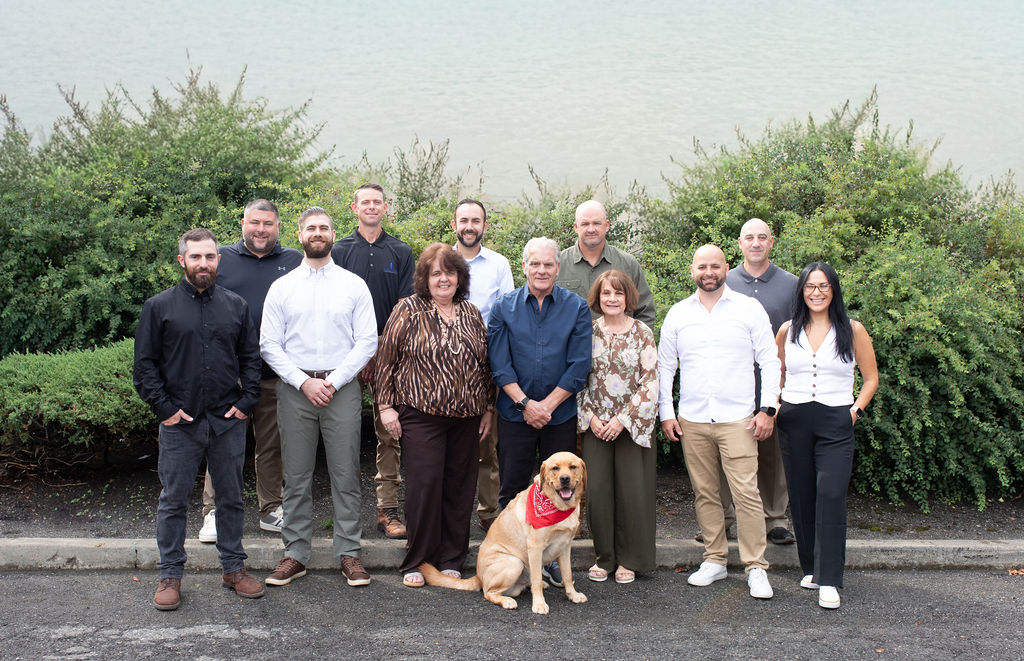
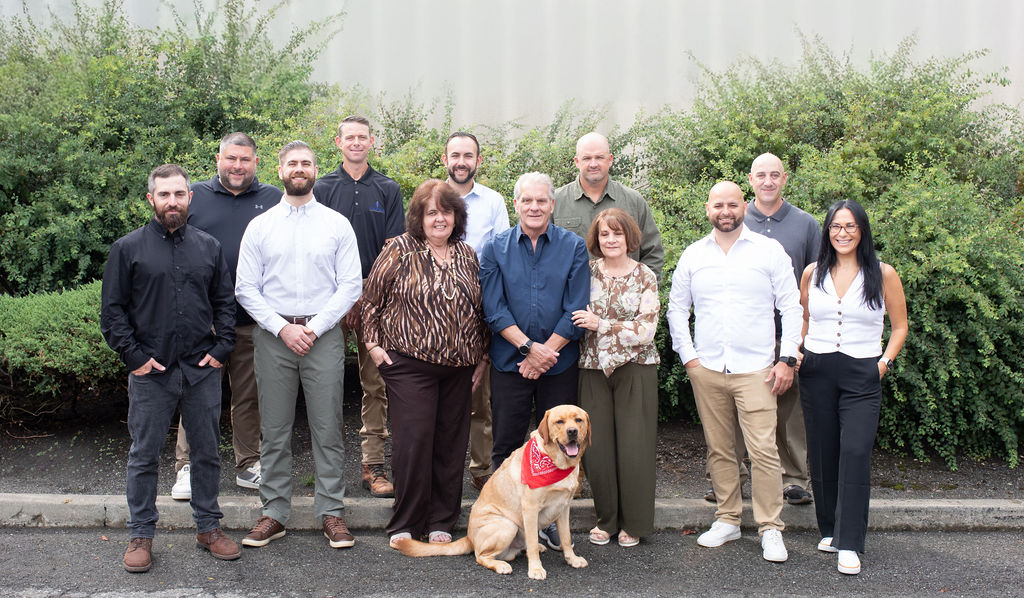
Stand the crew on the word and answer the first review round
Matt chose the tighter group frame (Shot 2), which has no blank wall above
the crew, so the title moves from the wall to the road. The asphalt fades
into the plate black and "People." is set in that black at the width of the
crew's footprint, the P stem under the first boot and the period under the
last shoe. The page ground is now the black the portraits were normalized
to, so the twelve plates dissolve into the page.

From the first review round: no resting dim and no neighbour dim on hover,
one photographer credit instead of three, the grey period removed, the lead
names the three principals, the close uses the homepage's own line and
button, the values link carries the homepage label, and the dateline clears
the descender of the p.

Refs LA-646

diff --git a/assets/people.css b/assets/people.css
@@ -1,6 +1,6 @@
 /* People. Scoped under .pp. Every colour, ease and type size comes from the
    tokens in information-pages.css. The masthead and the group photograph sit
-   in the photograph itself. Everything below it sits on the site's dark, so
+   under the photograph, in the dark the road fades into. Everything sits on the site's dark, so
    the black seamless plates dissolve into the page and the people carry it. */
 
 .pp{
@@ -9,9 +9,14 @@
   --pp-plate:#0b0c0d;
   --pp-lab-size:.76rem;
   --pp-lab-track:.14em;
-  background:var(--dark);
+  /* The word runs the width of the crew's footprint in the frame: their shoes
+     span about 11.5% to 88% of the photograph, and the word is 3.15em wide. */
+  --pp-title:24.3vw;
+  --pp-crew-left:11.5vw;
+  background:var(--pp-plate);
   color:#fff;
 }
+@supports(width:1cqw){.pp{--pp-title:24.3cqw;--pp-crew-left:11.5cqw}}
 .pp__wrap{padding-inline:var(--pp-gut);max-width:var(--pp-max);margin:0 auto}
 .pp__lab{
   font-size:var(--pp-lab-size);
@@ -21,49 +26,52 @@
 }
 
 /* The opening. One frame, full width to 1680, the whole photograph, no crop.
-   The title is ink on the blank concrete above the hedge, and the bottom of
-   the frame runs the asphalt into the site dark so the road becomes the
-   ground the portraits stand on. */
-.pp__open{position:relative;max-width:var(--pp-max);margin:0 auto;background:#d8e2e2}
+   The asphalt at the bottom of the frame runs into the site dark, and the
+   title stands in that dark directly under the crew's feet. The road becomes
+   the ground the studio portraits stand on, and the word is set in it. */
+.pp__open{position:relative;max-width:var(--pp-max);margin:0 auto;container-type:inline-size}
 .pp__open-frame{position:relative;line-height:0}
 .pp__open-frame img{width:100%;height:auto}
 .pp__open-frame::after{
-  content:'';position:absolute;left:0;right:0;bottom:0;height:18%;pointer-events:none;
-  background:linear-gradient(180deg,rgba(7,9,18,0) 0%,rgba(7,9,18,.18) 30%,rgba(7,9,18,.62) 62%,rgba(7,9,18,.94) 88%,var(--dark) 100%);
+  content:'';position:absolute;left:0;right:0;bottom:0;height:16%;pointer-events:none;
+  background:linear-gradient(180deg,rgba(11,12,13,0) 0%,rgba(11,12,13,.22) 34%,rgba(11,12,13,.7) 66%,rgba(11,12,13,.96) 88%,var(--pp-plate) 100%);
 }
+.pp__masthead{
+  position:relative;z-index:1;
+  margin-top:calc(var(--pp-title) * -.16);
+}
+/* The title aligns to the first boot, not the page gutter. It belongs to the
+   photograph. Everything under it returns to the gutter. */
+.pp__wordmark{margin-left:calc(var(--pp-crew-left) - var(--pp-gut))}
 .pp__wordmark{
-  position:absolute;z-index:1;
-  left:var(--pp-gut);top:2.4%;
-  color:var(--ink);
+  color:#fff;
   font-weight:600;
-  font-size:clamp(3.4rem,13vw,10.5rem);
+  font-size:var(--pp-title);
   line-height:.84;
-  letter-spacing:-.045em;
+  letter-spacing:-.035em;
 }
-.pp__wordmark span{font-weight:400;color:var(--muted)}
-
-/* Dateline, in the black right under the frame */
+/* The dateline clears the descender of the p, then reads as one line. */
 .pp__meta{
   color:rgba(255,255,255,.55);
-  padding-top:1.1rem;
   display:flex;flex-wrap:wrap;gap:.4rem 1.6rem;
+  margin-top:calc(var(--pp-title) * .3);
+  padding-top:.9rem;
+  border-top:1px solid rgba(255,255,255,.14);
 }
 .pp__meta span{white-space:nowrap}
-.pp__meta-credit{margin-left:auto}
-@media(max-width:759px){.pp__meta-credit{margin-left:0}}
 
 /* Portrait series */
-.pp__series{background:var(--dark);color:#fff}
+.pp__series{background:var(--pp-plate);color:#fff}
 .pp__lead{
-  padding-block:clamp(2.6rem,5vw,4.6rem) clamp(2.2rem,4vw,3.6rem);
+  padding-block:clamp(2.4rem,4.5vw,4.2rem) clamp(2.2rem,4vw,3.6rem);
   display:grid;grid-template-columns:minmax(0,1fr);gap:1.4rem clamp(2rem,5vw,4rem);
   align-items:end;
 }
 .pp__lead p{
-  font-size:clamp(1.2rem,2vw,1.7rem);
-  line-height:1.3;
+  font-size:clamp(1.15rem,1.9vw,1.6rem);
+  line-height:1.32;
   letter-spacing:-.015em;
-  max-width:30ch;
+  max-width:36ch;
 }
 .pp__lead p strong{font-weight:600}
 .pp__lead p span{color:rgba(255,255,255,.62)}
@@ -90,7 +98,6 @@
 .pp__shot{position:relative;aspect-ratio:4/5;background:var(--pp-plate);overflow:hidden}
 .pp__shot img{
   width:100%;height:100%;object-fit:cover;
-  filter:brightness(.9);
   transform:scale(1.001);
   transition:filter .75s var(--ease),transform 1s var(--ease);
 }
@@ -103,24 +110,20 @@
 .pp__name{font-weight:600;font-size:clamp(1.05rem,1.3vw,1.32rem);letter-spacing:-.012em;line-height:1.2}
 .pp__role{color:rgba(255,255,255,.55);margin-top:.35rem;transition:color .5s var(--ease)}
 
-/* Hover is light. The room dims a step, the person you are on comes up to
-   full and takes half a step forward, and the role reads at full white. The
-   change comes in fast and goes out slow, the way a lamp does. */
+/* Hover is light. Nothing is dimmed at rest. The person you are on comes up
+   a step and moves forward a hair, the role reads at full white, and the
+   site's navy rule draws under the frame. Fast in, slow out, like a lamp. */
 @media(hover:hover){
-  .pp__grid:has(.pp__person:hover) .pp__person:not(:hover) .pp__shot img{filter:brightness(.7)}
-  .pp__grid:has(.pp__person:hover) .pp__person:not(:hover) .pp__caption{opacity:.5}
   .pp__person:hover .pp__shot img{
-    filter:brightness(1.06) contrast(1.02);
-    transform:scale(1.02);
+    filter:brightness(1.07) contrast(1.02);
+    transform:scale(1.012);
     transition-duration:.35s,1s;
   }
   .pp__person:hover .pp__shot::after{width:100%}
   .pp__person:hover .pp__role{color:#fff}
 }
-/* Touch and keyboard. Nothing is ever dimmed on a phone, and a focused person
-   reads the same as a hovered one. */
-@media(hover:none){.pp__shot img{filter:none}}
-.pp__person:focus-within .pp__shot img{filter:brightness(1.06) contrast(1.02);transform:scale(1.02)}
+/* Keyboard: a focused person reads the same as a hovered one. */
+.pp__person:focus-within .pp__shot img{filter:brightness(1.07) contrast(1.02);transform:scale(1.012)}
 .pp__person:focus-within .pp__shot::after{width:100%}
 .pp__person:focus-within .pp__role{color:#fff}
 

diff --git a/people/index.html b/people/index.html
@@ -26,28 +26,29 @@
 
 <main id="main" class="pp">
 
-  <!-- The opening. The title is set on the concrete wall behind the crew, and
-       the road they stand on runs down into the black the portraits sit on. -->
+  <!-- The opening. The crew stands on the road, the road fades into the site
+       dark, and the title stands in that dark directly under their feet. -->
   <section class="pp__open" aria-labelledby="pp-title">
-    <h1 class="pp__wordmark" id="pp-title">People<span>.</span></h1>
     <div class="pp__open-frame">
       <picture>
         <source type="image/webp" srcset="../assets/people/crew-1024.webp">
-        <img src="../assets/people/crew-1024.jpg" width="1024" height="661" alt="The twelve people of Montana Contracting, and Franky, standing together in front of a hedge and a concrete wall" loading="eager" fetchpriority="high" decoding="async">
+        <img src="../assets/people/crew-1024.jpg" width="1024" height="598" alt="The twelve people of Montana Contracting, and Franky, standing together in front of a hedge and a concrete wall" loading="eager" fetchpriority="high" decoding="async">
       </picture>
+    </div>
+    <div class="pp__wrap pp__masthead">
+      <h1 class="pp__wordmark" id="pp-title">People.</h1>
+      <div class="pp__meta pp__lab">
+        <span>Montana Contracting Corp.</span>
+        <span>Congers, New York</span>
+        <span>Est. 1984</span>
+      </div>
     </div>
   </section>
 
   <section class="pp__series" aria-labelledby="pp-lead">
-    <div class="pp__wrap pp__meta pp__lab">
-      <span>Montana Contracting Corp.</span>
-      <span>Congers, New York</span>
-      <span>Est. 1984</span>
-      <span class="pp__meta-credit">Photographed September 2026 by April Vidal</span>
-    </div>
     <div class="pp__wrap pp__lead">
-      <p id="pp-lead"><strong>These are the twelve people who build the work.</strong> <span>Three principals stay on every project, and you are never handed off.</span></p>
-      <a class="pp__more pp__lab" href="../core-values/index.html">How we work <i></i></a>
+      <p id="pp-lead"><strong>These are the twelve people who build the work.</strong> <span>Joe Montana, Matt Nicosia and Chris Lange are the three principals. One of them stays on your project from the first walkthrough to the final punch list.</span></p>
+      <a class="pp__more pp__lab" href="../core-values/index.html">Our values <i></i></a>
     </div>
 
     <div class="pp__wrap">
@@ -227,16 +228,15 @@
       <div class="pp__wrap pp__close-inner">
         <div>
           <h2>Start a project.</h2>
-          <p>The people on this page are the people on site.</p>
+          <p>Tell us about the work. One of the three principals will be in touch personally.</p>
         </div>
-        <a class="btn" href="../index.html#contact">Start a Project</a>
+        <a class="btn" href="../index.html#contact">Let's Talk</a>
       </div>
     </div>
 
     <div class="pp__wrap">
       <p class="pp__credits pp__lab">
-        <span>Montana Contracting Corp., Congers, New York</span>
-        <span>Portraits and group photograph by April Vidal Photography</span>
+        <span>Portraits and group photograph by April Vidal, September 2026</span>
       </p>
     </div>
   </section>
